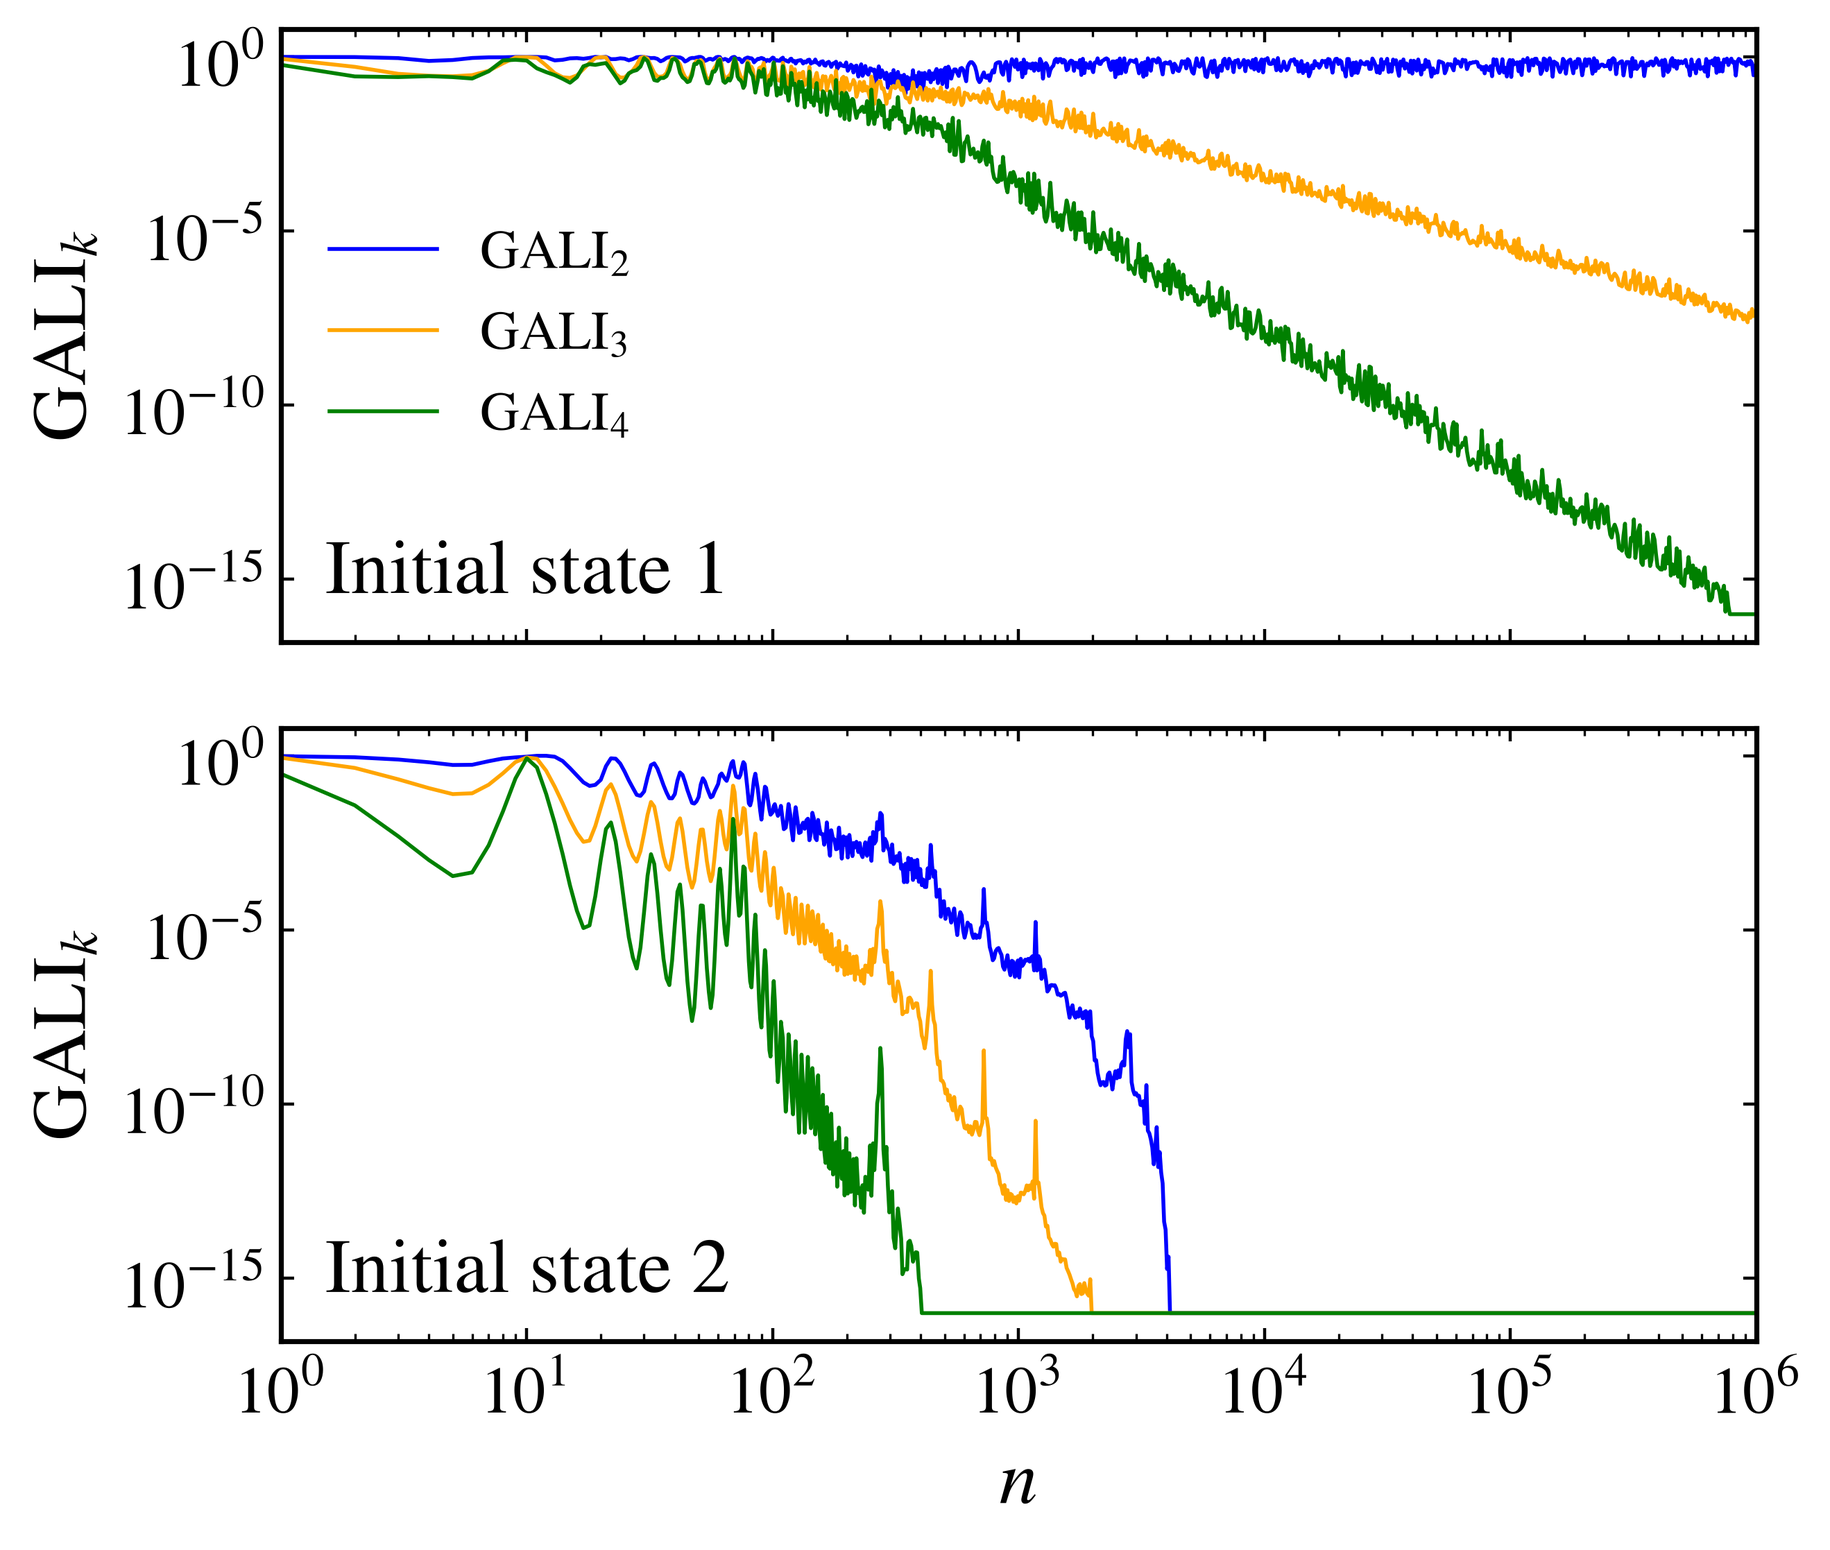
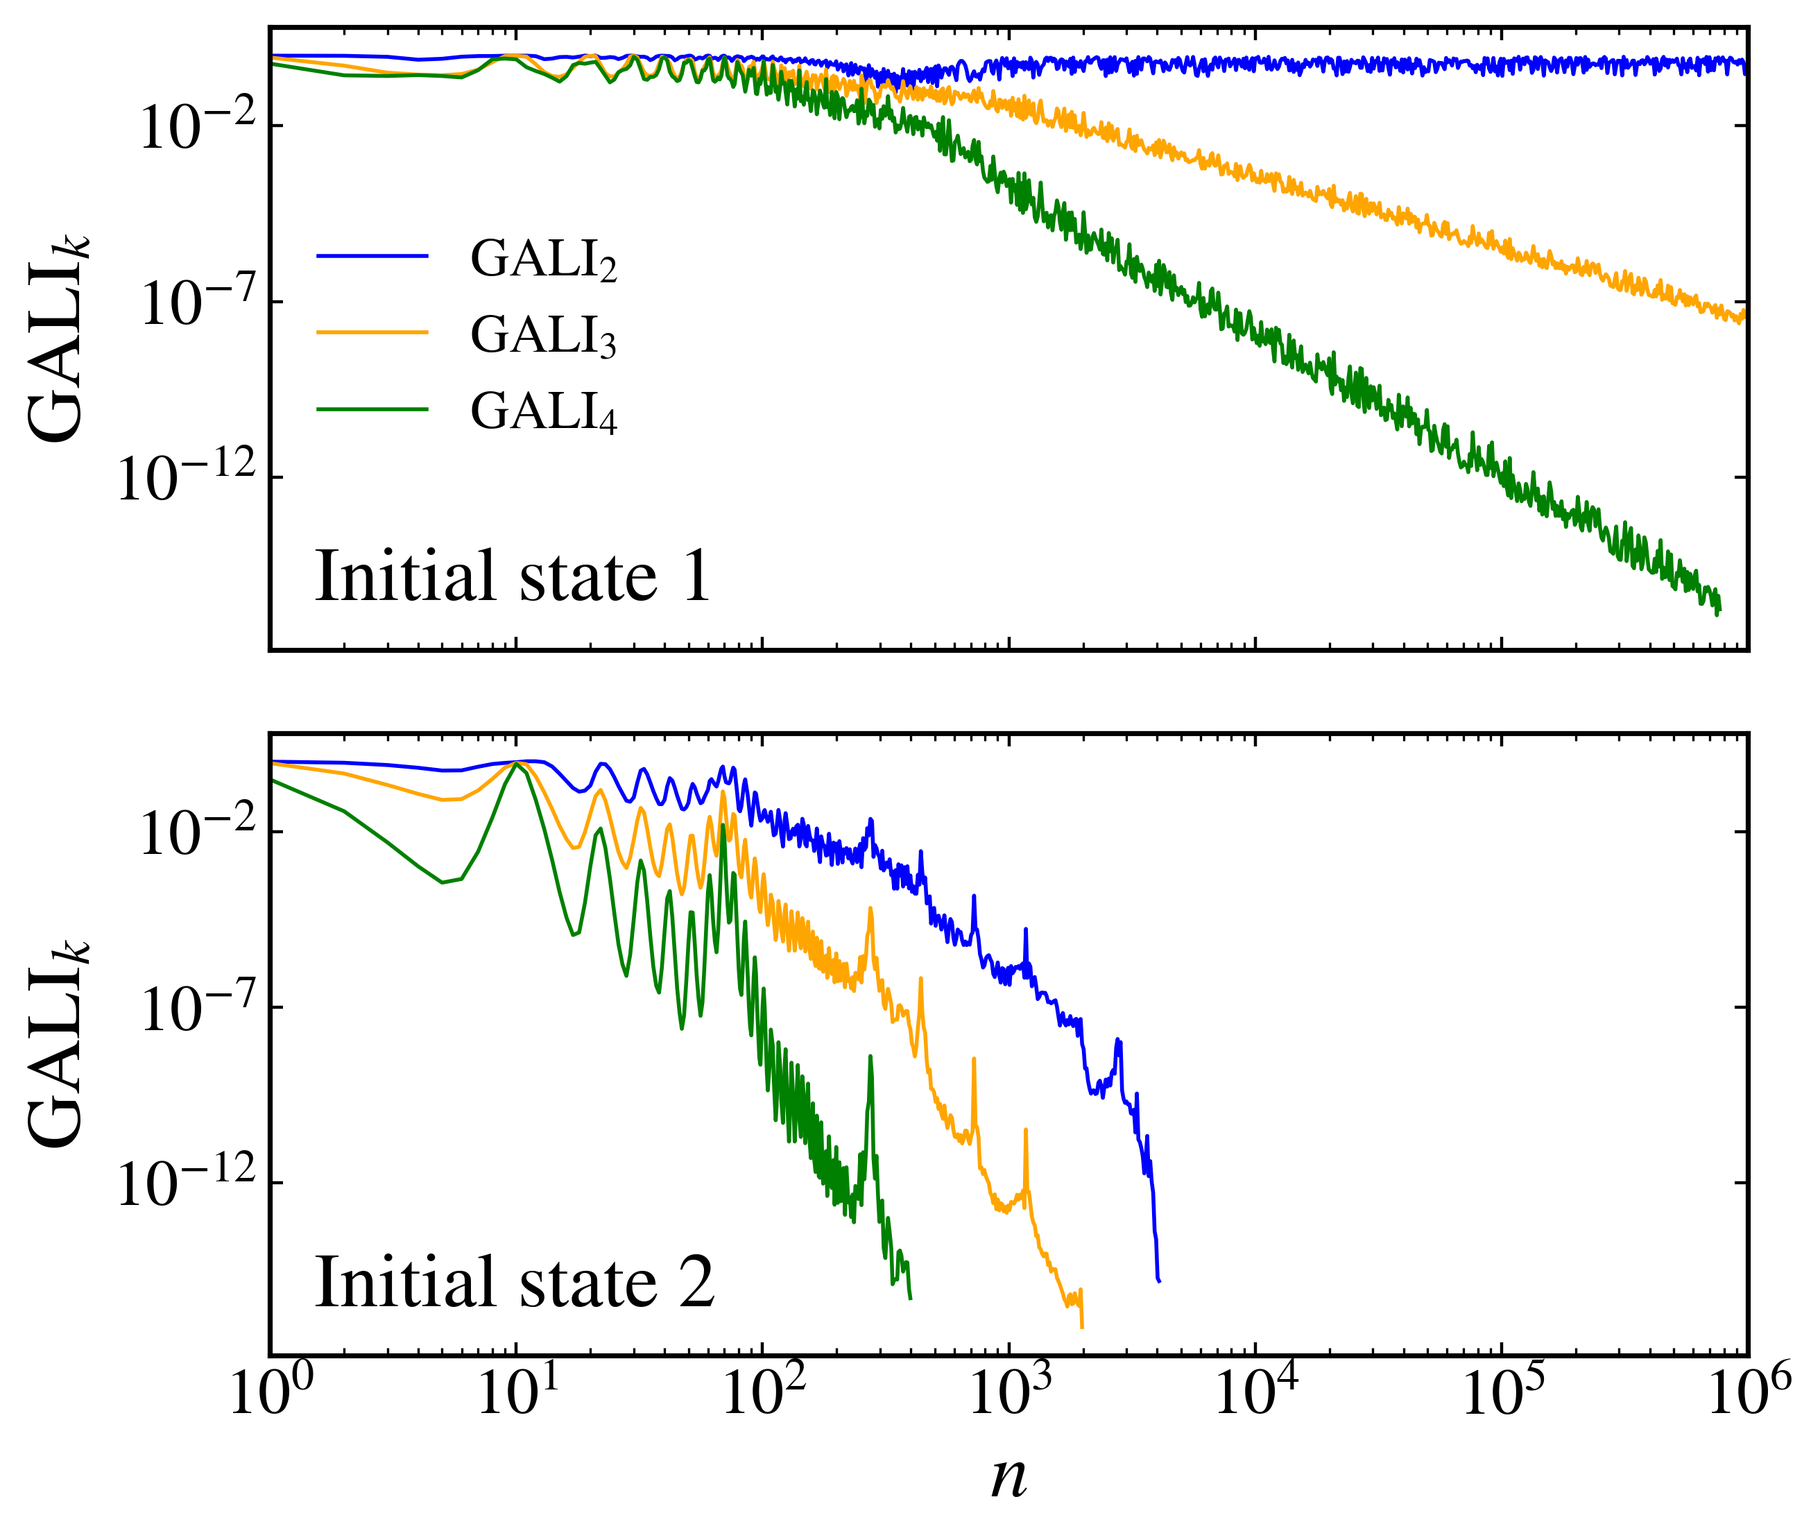
fix: end the discrete SALI, LDI and GALI histories at the early stop instead of filling them with zeros

diff --git a/src/pynamicalsys/core/discrete_dynamical_systems.py b/src/pynamicalsys/core/discrete_dynamical_systems.py
@@ -4011,8 +4011,9 @@ class DiscreteDynamicalSystem:
               entry `i` corresponds to iteration `transient_time + i + 1`. With
               `sample_times`, entry `i` corresponds to the `i`-th sample time
               after sorting and removing duplicates. If SALI falls below
-              `threshold`, the computation stops, and the entries after that
-              point are zero.
+              `threshold`, the computation stops, and the array ends with the
+              last value recorded up to the stop, so it is shorter than
+              described above.
             - If `return_history=True` and `return_last_state=True`, returns
               `(sali_history, final_state)`.
 
@@ -4206,8 +4207,9 @@ class DiscreteDynamicalSystem:
               entry `i` corresponds to iteration `transient_time + i + 1`. With
               `sample_times`, entry `i` corresponds to the `i`-th sample time
               after sorting and removing duplicates. If LDI_k falls below
-              `threshold`, the computation stops, and the entries after that
-              point are zero.
+              `threshold`, the computation stops, and the array ends with the
+              last value recorded up to the stop, so it is shorter than
+              described above.
             - If `return_history=True` and `return_last_state=True`, returns
               `(ldi_history, final_state)`.
 
@@ -4432,8 +4434,9 @@ class DiscreteDynamicalSystem:
               entry `i` corresponds to iteration `transient_time + i + 1`. With
               `sample_times`, entry `i` corresponds to the `i`-th sample time
               after sorting and removing duplicates. If GALI_k falls below
-              `threshold`, the computation stops, and the entries after that
-              point are zero.
+              `threshold`, the computation stops, and the array ends with the
+              last value recorded up to the stop, so it is shorter than
+              described above.
             - If `return_history=True` and `return_last_state=True`, returns
               `(gali_history, final_state)`.
 

diff --git a/tests/discrete_time/test_alignment_indices_threshold.py b/tests/discrete_time/test_alignment_indices_threshold.py
@@ -37,9 +37,27 @@ def test_threshold_stops_the_computation(system, name):
     stopped = compute(system, threshold=1e-8, return_history=True)
     full = compute(system, threshold=0.0, return_history=True)
 
+    # Every iteration is recorded, so the history ends exactly at the stop.
     stop = np.argmax(full < 1e-8)
     assert stop > 0
-    np.testing.assert_array_equal(stopped[: stop + 1], full[: stop + 1])
+    np.testing.assert_array_equal(stopped, full[: stop + 1])
+
+
+@pytest.mark.parametrize("name", INDICATORS)
+def test_history_is_truncated_at_the_stop_with_sample_times(system, name):
+    compute = INDICATORS[name]
+    sample_times = np.arange(10, TOTAL_TIME + 1, 10)
+    full = compute(system, threshold=0.0, return_history=True)
+    stopped = compute(
+        system, threshold=1e-8, return_history=True, sample_times=sample_times
+    )
+
+    # The stop happens at iteration stop_iteration; only the sample times up
+    # to it are recorded, and there are no trailing zeros.
+    stop_iteration = np.argmax(full < 1e-8) + 1
+    recorded = sample_times[sample_times <= stop_iteration]
+    assert 0 < len(recorded) < len(sample_times)
+    np.testing.assert_array_equal(stopped, full[recorded - 1])
 
 
 @pytest.mark.parametrize("name", INDICATORS)

diff --git a/src/pynamicalsys/discrete_time/gali.py b/src/pynamicalsys/discrete_time/gali.py
@@ -117,8 +117,9 @@ def gali_k(
           - a 1D array with shape `(1,)` containing the final GALI_k value
           - the final state of shape `(neq,)`
         - If `return_history=True`, returns:
-          - a 1D array with shape `(len(sample_times),)` containing GALI_k
-            evaluated at the requested sampling times
+          - a 1D array containing GALI_k evaluated at the requested sampling
+            times. If the computation stops early, it contains only the values
+            recorded up to the stop, so it may be shorter than `sample_times`
           - the final state of shape `(neq,)`
 
     Notes
@@ -193,6 +194,6 @@ def gali_k(
             break
 
     if return_history:
-        return history, u
+        return history[:sample_idx], u
 
     return np.array([gali_val]), u

diff --git a/src/pynamicalsys/discrete_time/ldi.py b/src/pynamicalsys/discrete_time/ldi.py
@@ -80,8 +80,9 @@ def ldi_k(
           - a 1D array with shape `(1,)` containing the final LDI_k value
           - the final state of shape `(neq,)`
         - If `return_history=True`, returns:
-          - a 1D array with shape `(len(sample_times),)` containing LDI_k
-            evaluated at the requested sampling times
+          - a 1D array containing LDI_k evaluated at the requested sampling
+            times. If the computation stops early, it contains only the values
+            recorded up to the stop, so it may be shorter than `sample_times`
           - the final state of shape `(neq,)`
 
     Notes
@@ -137,6 +138,6 @@ def ldi_k(
             break
 
     if return_history:
-        return history, u
+        return history[:sample_idx], u
 
     return np.array([ldi_val]), u

diff --git a/src/pynamicalsys/discrete_time/sali.py b/src/pynamicalsys/discrete_time/sali.py
@@ -78,8 +78,9 @@ def sali(
           - a 1D array with shape `(1,)` containing the final SALI value
           - the final state of shape `(neq,)`
         - If `return_history=True`, returns:
-          - a 1D array with shape `(len(sample_times),)` containing SALI
-            evaluated at the requested sampling times
+          - a 1D array containing SALI evaluated at the requested sampling
+            times. If the computation stops early, it contains only the values
+            recorded up to the stop, so it may be shorter than `sample_times`
           - the final state of shape `(neq,)`
 
     Notes
@@ -136,6 +137,6 @@ def sali(
             break
 
     if return_history:
-        return history, u
+        return history[:sample_idx], u
 
     return np.array([sali_val]), u

diff --git a/docs/source/dds_alignment_indices.rst b/docs/source/dds_alignment_indices.rst
@@ -42,18 +42,20 @@ Compute SALI for two trajectories of the four-dimensional symplectic map with :p
     threshold = 1e-16
     seed = 1312
 
-    sali_histories = np.empty((len(initial_states), len(sample_times)))
-    for i, initial_state in enumerate(initial_states):
-        sali_histories[i] = system.SALI(
-            u=initial_state,
-            total_time=total_time,
-            return_history=True,
-            sample_times=sample_times,
-            threshold=threshold,
-            seed=seed,
+    sali_histories = []
+    for initial_state in initial_states:
+        sali_histories.append(
+            system.SALI(
+                u=initial_state,
+                total_time=total_time,
+                return_history=True,
+                sample_times=sample_times,
+                threshold=threshold,
+                seed=seed,
+            )
         )
 
-The computation stops when SALI falls below ``threshold``. Entries after an early stop remain zero in the returned history, so ``np.maximum`` is used only to place them at the tolerance floor on the logarithmic axis:
+The computation stops when SALI falls below ``threshold``, and the returned history then ends at the last sample time before the stop, so it can be shorter than ``sample_times``. Each history is therefore kept in a list and plotted against the sample times it covers:
 
 .. code-block:: python
 
@@ -62,10 +64,10 @@ The computation stops when SALI falls below ``threshold``. Entries after an earl
     ps = PlotStyler()
     ps.apply_style()
     fig, ax = plt.subplots(figsize=(7, 4))
-    for i in range(len(initial_states)):
+    for i, history in enumerate(sali_histories):
         ax.loglog(
-            sample_times,
-            np.maximum(sali_histories[i], threshold),
+            sample_times[: len(history)],
+            history,
             color=colors[i],
             label=f"Initial state {i + 1}",
         )
@@ -117,26 +119,29 @@ Compare all three methods for :math:`k=2` using identical initial deviation vect
     colors = ["blue", "orange", "green"]
     gali_methods = ["QR", "QR_HH", "DET"]
     k = 2
-    gali_method_histories = np.empty((len(gali_methods), len(sample_times)))
-    for i, method in enumerate(gali_methods):
-        gali_method_histories[i] = system.GALI(
-            u=initial_states[1],
-            total_time=total_time,
-            k=k,
-            return_history=True,
-            sample_times=sample_times,
-            method=method,
-            threshold=threshold,
-            seed=seed,
+    gali_method_histories = []
+    for method in gali_methods:
+        gali_method_histories.append(
+            system.GALI(
+                u=initial_states[1],
+                total_time=total_time,
+                k=k,
+                return_history=True,
+                sample_times=sample_times,
+                method=method,
+                threshold=threshold,
+                seed=seed,
+            )
         )
 
     ps = PlotStyler()
     ps.apply_style()
     fig, ax = plt.subplots(figsize=(7, 4))
     for i, method in enumerate(gali_methods):
+        history = gali_method_histories[i]
         ax.loglog(
-            sample_times,
-            np.maximum(gali_method_histories[i], threshold),
+            sample_times[: len(history)],
+            history,
             label=method,
             color=colors[i],
         )
@@ -153,7 +158,7 @@ Compare all three methods for :math:`k=2` using identical initial deviation vect
 
     Comparison of the modified Gram-Schmidt QR, Householder QR, and Gram determinant formulations of :math:`\mathrm{GALI}_2`.
 
-The three curves initially overlap, but the determinant formulation drops abruptly to the tolerance floor when :math:`\mathrm{GALI}_2` is approximately :math:`10^{-8}`. At that point, :math:`\det(\mathbf{V}_n^T\mathbf{V}_n)=\mathrm{GALI}_2^2` is approximately :math:`10^{-16}`, so rounding errors dominate the Gram determinant. The QR formulations operate directly on the volume through the diagonal entries of :math:`\mathbf{R}_n` and continue resolving the decay for substantially longer. This illustrates why ``DET`` is the least reliable option when the deviation vectors become strongly aligned.
+The three curves initially overlap, but the determinant formulation ends abruptly when :math:`\mathrm{GALI}_2` is approximately :math:`10^{-8}`. At that point, :math:`\det(\mathbf{V}_n^T\mathbf{V}_n)=\mathrm{GALI}_2^2` is approximately :math:`10^{-16}`, so rounding errors dominate the Gram determinant, which collapses below the threshold and stops the computation. The QR formulations operate directly on the volume through the diagonal entries of :math:`\mathbf{R}_n` and continue resolving the decay for substantially longer. This illustrates why ``DET`` is the least reliable option when the deviation vectors become strongly aligned.
 
 GALI for different values of k
 ^^^^^^^^^^^^^^^^^^^^^^^^^^^^^^
@@ -163,19 +168,23 @@ Compute GALI for :math:`k=2`, :math:`k=3`, and :math:`k=4` for the same two init
 .. code-block:: python
 
     k_values = np.array([2, 3, 4])
-    gali_histories = np.empty((len(initial_states), len(sample_times), len(k_values)))
-    for i, initial_state in enumerate(initial_states):
-        for j, k in enumerate(k_values):
-            gali_histories[i, :, j] = system.GALI(
-                u=initial_state,
-                total_time=total_time,
-                k=k,
-                return_history=True,
-                sample_times=sample_times,
-                method="QR_HH",
-                threshold=threshold,
-                seed=seed,
+    gali_histories = []
+    for initial_state in initial_states:
+        histories = []
+        for k in k_values:
+            histories.append(
+                system.GALI(
+                    u=initial_state,
+                    total_time=total_time,
+                    k=k,
+                    return_history=True,
+                    sample_times=sample_times,
+                    method="QR_HH",
+                    threshold=threshold,
+                    seed=seed,
+                )
             )
+        gali_histories.append(histories)
 
     colors = ["blue", "orange", "green"]
 
@@ -184,9 +193,10 @@ Compute GALI for :math:`k=2`, :math:`k=3`, and :math:`k=4` for the same two init
     fig, ax = plt.subplots(2, 1, figsize=(7, 6), sharex=True, sharey=True)
     for i in range(len(initial_states)):
         for j, k in enumerate(k_values):
+            history = gali_histories[i][j]
             ax[i].loglog(
-                sample_times,
-                np.maximum(gali_histories[i, :, j], threshold),
+                sample_times[: len(history)],
+                history,
                 color=colors[j],
                 label=rf"$\mathrm{{GALI}}_{k}$",
             )
@@ -224,18 +234,22 @@ Compute :math:`\mathrm{LDI}_2`, :math:`\mathrm{LDI}_3`, and :math:`\mathrm{LDI}_
 .. code-block:: python
 
     k_values = np.array([2, 3, 4])
-    ldi_histories = np.empty((len(initial_states), len(sample_times), len(k_values)))
-    for i, initial_state in enumerate(initial_states):
-        for j, k in enumerate(k_values):
-            ldi_histories[i, :, j] = system.LDI(
-                u=initial_state,
-                total_time=total_time,
-                k=k,
-                return_history=True,
-                sample_times=sample_times,
-                threshold=threshold,
-                seed=seed,
+    ldi_histories = []
+    for initial_state in initial_states:
+        histories = []
+        for k in k_values:
+            histories.append(
+                system.LDI(
+                    u=initial_state,
+                    total_time=total_time,
+                    k=k,
+                    return_history=True,
+                    sample_times=sample_times,
+                    threshold=threshold,
+                    seed=seed,
+                )
             )
+        ldi_histories.append(histories)
 
     colors = ["blue", "orange", "green"]
 
@@ -244,9 +258,10 @@ Compute :math:`\mathrm{LDI}_2`, :math:`\mathrm{LDI}_3`, and :math:`\mathrm{LDI}_
     fig, ax = plt.subplots(2, 1, figsize=(7, 6), sharex=True, sharey=True)
     for i in range(len(initial_states)):
         for j, k in enumerate(k_values):
+            history = ldi_histories[i][j]
             ax[i].loglog(
-                sample_times,
-                np.maximum(ldi_histories[i, :, j], threshold),
+                sample_times[: len(history)],
+                history,
                 color=colors[j],
                 label=rf"$\mathrm{{LDI}}_{k}$",
             )
@@ -371,7 +386,7 @@ Numerical options
     The formulation of ``GALI``: ``"QR"`` (default), ``"QR_HH"``, or ``"DET"``, as compared above.
 
 ``threshold``
-    The calculation stops when the indicator falls below this value. The default ``1e-16`` is close to the smallest value the indicators can resolve in double precision. Set ``threshold=0.0`` to iterate up to ``total_time`` regardless of the indicator.
+    The calculation stops when the indicator falls below this value. The default ``1e-16`` is close to the smallest value the indicators can resolve in double precision. With ``return_history=True``, the history ends at the stop. Set ``threshold=0.0`` to iterate up to ``total_time`` regardless of the indicator.
 
 ``transient_time`` and ``seed``
     The number of iterations discarded before the deviation vectors are evolved, which defaults to zero, and the seed of the random deviation vectors, which defaults to ``1312``.

diff --git a/CHANGELOG.md b/CHANGELOG.md
@@ -31,6 +31,7 @@ and this project adheres to [Semantic Versioning](https://semver.org/spec/v2.0.0
 - `lyapunov`, `SALI`, `LDI`, and `GALI` of `DiscreteDynamicalSystem` emit a `UserWarning` when `sample_times` is passed without `return_history=True`, where it has no effect. It was previously ignored without notice. The same applies to `ContinuousDynamicalSystem` and `HamiltonianSystem`.
 - In `lyapunov`, `SALI`, `LDI`, and `GALI` of `DiscreteDynamicalSystem`, `sample_times` are now iterations counted from the initial condition, like `total_time`, and must lie in `(transient_time, total_time]`. They were previously counted from the end of the transient but checked against `total_time`, so times beyond `total_time - transient_time` returned rows of zeros. With a `transient_time`, add it to the sample times to reproduce previous results.
 - The early-stopping value of `SALI`, `LDI`, and `GALI` of `DiscreteDynamicalSystem` is now passed as `threshold`, as in `ContinuousDynamicalSystem` and `HamiltonianSystem`.
+- When `SALI`, `LDI`, or `GALI` of `DiscreteDynamicalSystem` stops early because the indicator falls below `threshold`, the history returned with `return_history=True` now ends at the stop, as in `ContinuousDynamicalSystem` and `HamiltonianSystem`, instead of being filled with zeros up to `total_time` or the last sample time. It can therefore be shorter than `sample_times`.
 
 ### Deprecated
 
